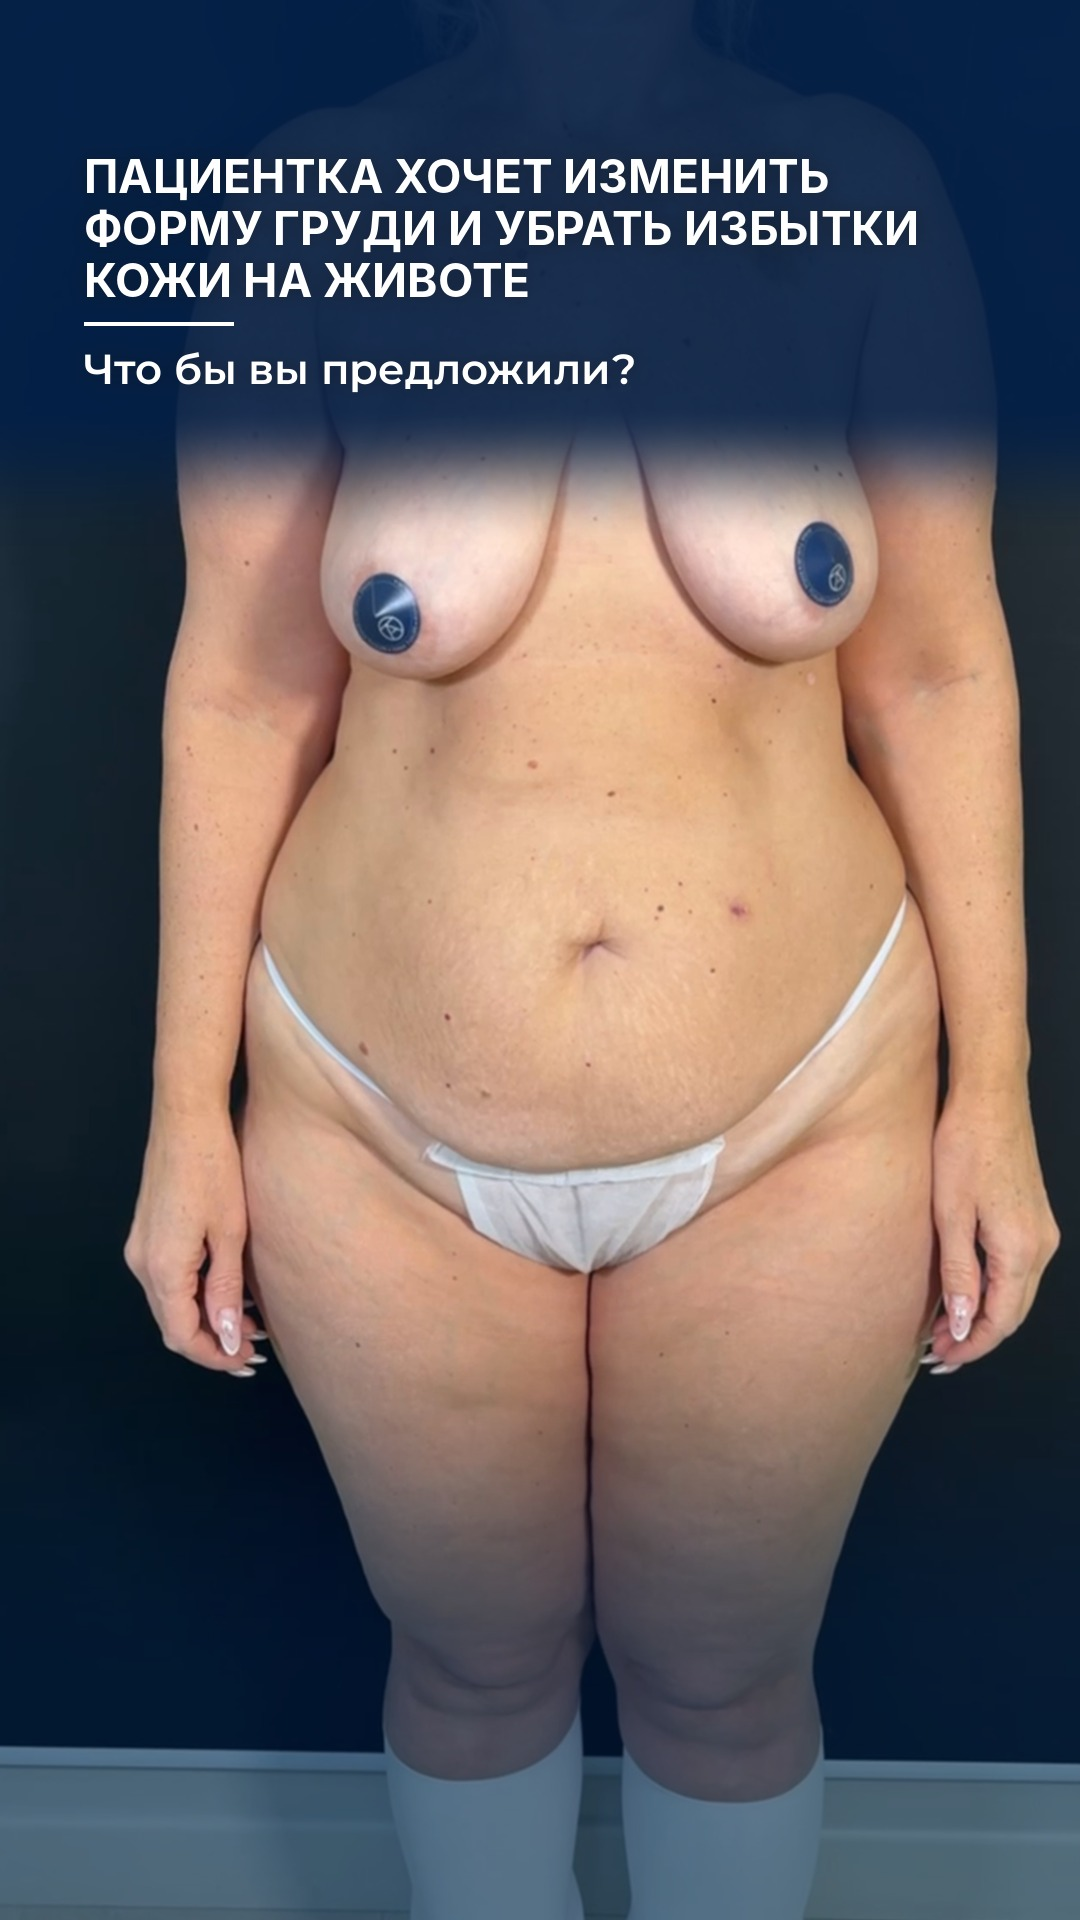
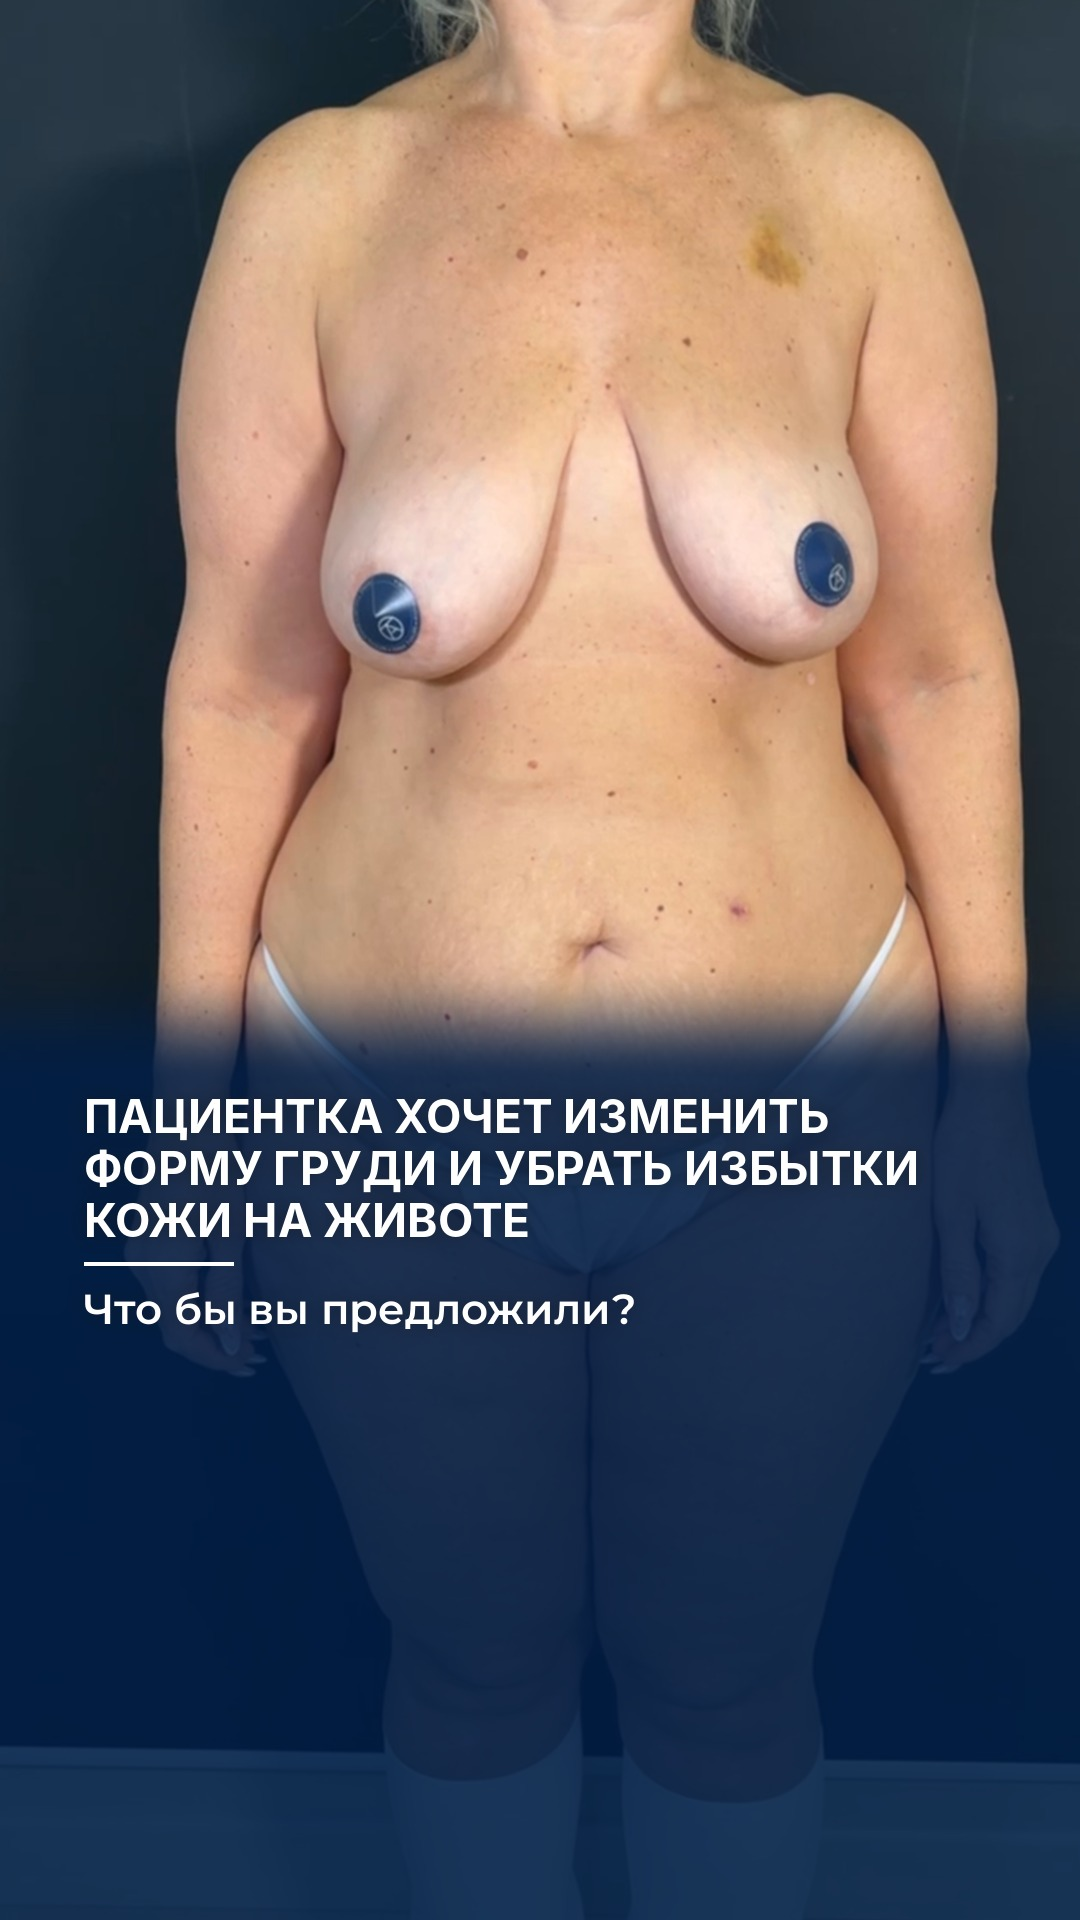
Abdo story 1: text at the level of the briefs, poll under it
Claude-Session: https://claude.ai/code/session_01DoBoRz2HUe4yvMBz6dWv4L

diff --git a/tools/stories_abdo_complex.py b/tools/stories_abdo_complex.py
@@ -445,12 +445,12 @@ FIXES = {"грудное оскармливание": "грудное вскар
 
 def s1():
     c = Clip("IMG_9968.MP4", 0.0, 10.0, ct=0.12, zoom=(1.0, 1.03), zc=(0.5, 0.35))     # face is above the window
-    col = Column(150, align="left")
+    col = Column(1090, align="left")
     col.head("ПАЦИЕНТКА ХОЧЕТ ИЗМЕНИТЬ ФОРМУ ГРУДИ И УБРАТЬ ИЗБЫТКИ КОЖИ НА ЖИВОТЕ", 0, size=46, gap=16).rule(0, gap=16)
     col.body("Что бы вы предложили?", 0, size=42, wght=600, gap=0)
     print("s1 text ends", col.y)
-    # text at the top on a navy band over the shoulders; the whole lower half (~1150..1780) is left for a big poll sticker
-    shade = np.maximum(vgrad(col.y + 10, col.y + 150, 0.9, 0.0), vgrad(1250, 1700, 0.0, 0.55))
+    # text at the level of the briefs on a navy band; under it (~1360..1780) the poll sticker, as large as it fits
+    shade = vgrad(960, 1080, 0.0, 0.88)
     render(1, "chto_by_vy_predlozhili", 10.0, clip_bg(c), col.items, shade=shade)
 
 

diff --git a/stories_abdo_complex/README.md b/stories_abdo_complex/README.md
@@ -5,7 +5,7 @@
 
 | № | Файл | Фон | Звук | Стикер в Instagram |
 |---|------|-----|------|--------------------|
-| 1 | 01_chto_by_vy_predlozhili | видео ДО (IMG_9968, 0:00–0:10), лицо за кадром | нет | Текст сверху, на тёмно-синей плашке. **Опрос** крупно в нижней половине (~1150–1780 px, на бёдрах): 🔘 Подтяжка груди + липосакция / 🔘 Подтяжка и липофилинг + абдомино |
+| 1 | 01_chto_by_vy_predlozhili | видео ДО (IMG_9968, 0:00–0:10), лицо за кадром | нет | Текст на уровне трусов, на тёмно-синей плашке. **Опрос** крупно под текстом (~1360–1780 px): 🔘 Подтяжка груди + липосакция / 🔘 Подтяжка и липофилинг + абдомино |
 | 2 | 02_vy_pravy | хирург, IMG_3806 0:00–0:07.6 — «У нас комплексная операция большая, абдоминопластика, подтяжка груди, липофилинг груди» | голос (субтитры уже вшиты в исходник) | — |
 
 Текст стоит неподвижно с первого кадра. Шрифты: заголовки — Inter Bold, текст — Montserrat. Цвета хирурга: тёмно-синий (как на стикере и логотипе) и белый.
